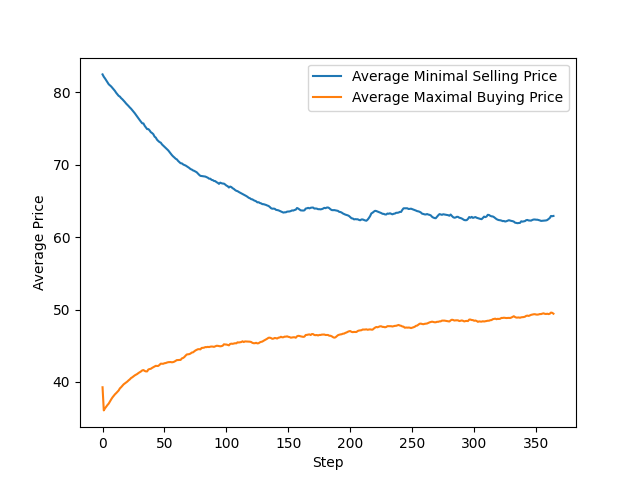
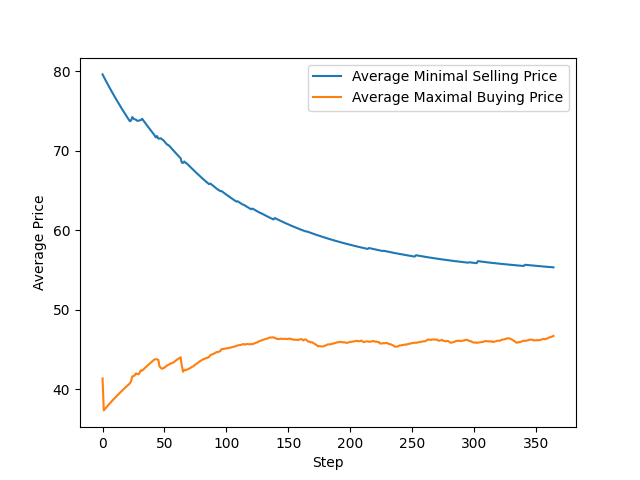
Agent groups per emissions

diff --git a/environment.py b/environment.py
@@ -11,6 +11,9 @@ EMISSION_VARIANCE = 0.2
 PRICE_VARIANCE = 0.8
 WILLINGNESS_GAP = 10
 ORIGINAL_PRICE = 60
+PRICE_CONTROL_VALUE = 20
+CREDITS_ALLOCATION_INTERVAL = 31
+
 
 class Environment:
     def __init__(self, number_of_agents_per_group,
@@ -36,24 +39,38 @@ class Environment:
 
     def create_agents(self):
         """
-        Creates agents based on the initial values.
-        Makes sure the inital maximum buying price is significantly lower than the initial minimum selling price
+        Creates agents based on the initial values given.
+        Iterates through number of groups and creates user decided amount of agents per each group.
+        Allowance credits are taken from the user decided list, in which group number corresponds to the listed credits.
+        Makes sure the initial maximum buying price is significantly lower than the initial minimum selling price.
         """
-        for _ in range(self.number_of_agents):
-            original_price = ORIGINAL_PRICE
-            emissions_amount = 0
-            buying_price = self.randomize_prices(original_price-20)#the max price I would pay must be lower as the price <- already picked from random pool
-            selling_price = self.randomize_prices(original_price+20)# I would sell a certificate, vice versa, the agent would be stupid
-            allocated_credits = self.allowance_credits #later it is going to be added <- introduced a bug, need to be allocated
-            time_steps = self.time_steps
-            new_agent = Agent(emissions_amount, allocated_credits, self.agent_transaction_limit, buying_price, selling_price, time_steps, original_price)
-            self.agents.append(new_agent)
+        for group_number in range(self.number_of_agents_group):
+            agent_index = 0
+            while agent_index != self.number_of_agents_per_group:
+                agent_index += 1
+                original_price = ORIGINAL_PRICE
+                emissions_amount = 0
+                buying_price = self.randomize_prices(original_price - PRICE_CONTROL_VALUE)
+                selling_price = self.randomize_prices(original_price + PRICE_CONTROL_VALUE)
+                allocated_credits = self.allowance_credits[group_number]
 
-    def randomize_emission_amount(self):
+                new_agent = Agent(emissions_amount,
+                                  allocated_credits,
+                                  self.agent_transaction_limit,
+                                  buying_price,
+                                  selling_price,
+                                  self.time_steps,
+                                  original_price,
+                                  group_number) # group number is also assigned
+                self.agents.append(new_agent)
+
+    def randomize_emission_amount(self, agent):
         """
+        THIS NEEDS TO BE REVISED!
+
         The total allowance credits are divided per month because they are increased daily
         """
-        all_cr = self.allowance_credits /31*self.number_of_agents_group #DIvided here by 30 because every day this gets added to the emissions
+        all_cr = agent.pre_allocated_credits /31 * self.number_of_agents_group #DIvided here by 30 because every day this gets added to the emissions
 
         min_emission = int(math.floor(all_cr -all_cr * EMISSION_VARIANCE))
         max_emission = int(math.floor(all_cr + all_cr * EMISSION_VARIANCE))
@@ -100,7 +117,7 @@ class Environment:
 
     def sort_buyers_sellers(self, buyers, sellers):
         """
-        Sorts buyertras by their maximum buying price
+        Sorts buyers by their maximum buying price
         and sellers by their minimum selling price reversed.
         """
         buyers.sort(key=lambda x: x.max_buying_price, reverse=False)
@@ -110,6 +127,7 @@ class Environment:
 
     def check_transaction_condition(self, buyer, seller):
         """
+        DEPRECATED
         Basic skeleton
         """
         if buyer.number_transaction_left > 0 and seller.number_transaction_left > 0:
@@ -127,13 +145,15 @@ class Environment:
         Last, if the buying price is higher than selling price, the transaction can be made
         """
         if buyer.number_transaction_left > 0 and seller.number_transaction_left > 0:
-            if buyer.pre_allocated_credits < buyer.emissions_amount and (seller.pre_allocated_credits > seller.emissions_amount or seller.willingness_to_reduce >= 1):
+            if buyer.pre_allocated_credits < buyer.emissions_amount and \
+                    (seller.pre_allocated_credits > seller.emissions_amount or seller.willingness_to_reduce >= 1):
                 if buyer.max_buying_price > seller.min_selling_price:
                     return True
         return False
 
     def do_transactions(self, buyers, sellers, step):
         """
+        DEPRECATED
         Basic functionality:
         Iterates through the list of buyers in sequential activation order
         buyer picks the seller promising lowest price and does transactions
@@ -144,7 +164,6 @@ class Environment:
                 i = 0
                 while self.check_transaction_condition(buyer, seller):
                     i += 1
-                    #print("transaction #" + str(i))
                     buyer.do_transaction()
                     buyer.add_credits()
                     seller.do_transaction()
@@ -152,6 +171,7 @@ class Environment:
 
     def do_transactions2(self, buyers, sellers, step):
         """
+        DEPRECATED
         Iterates through the list of buyers in sequential activation order
         buyer picks the seller promising lowest price and does transactions
         until either transaction quota is depleted, or the emission allowance is satisfied.
@@ -167,8 +187,7 @@ class Environment:
 
                 while self.check_transaction_condition(buyer, seller):
                     i += 1
-                    num_transaction = num_transaction + 1#there was a mistake !!!
-                    #print("transaction #" + str(i))
+                    num_transaction = num_transaction + 1
                     buyer.do_transaction()
                     buyer.add_credits()
                     seller.do_transaction()
@@ -207,7 +226,6 @@ class Environment:
                 while self.check_transaction_condition3(buyer, seller):
                     i += 1
                     num_transaction = num_transaction + 1
-                    #print("transaction #" + str(i))
                     buyer.do_transaction()
                     buyer.add_credits()
                     seller.do_transaction()
@@ -232,7 +250,6 @@ class Environment:
         for agent in sellers:
             agent.reset_quota()
 
-
     def increase_incentives(self, step):
         """
         If no transaction is made in the time step,
@@ -244,6 +261,14 @@ class Environment:
             agent.update_buying_price(step)
             agent.update_selling_price(step)
 
+    def add_credits(self, step):
+        """
+        When the current step matches the allocation interval,
+        """
+        if (step % CREDITS_ALLOCATION_INTERVAL) == 0 and step > 1:
+            for agent in self.agents:
+                agent.pre_allocated_credits = agent.pre_allocated_credits + self.allowance_credits[agent.group_number]
+
     def add_emission(self, step):
         """
         For every step and for every agent, the current emissions amount and allowance credits are recorded.
@@ -254,12 +279,10 @@ class Environment:
             agent.emissions_series[step] = agent.emissions_amount
             agent.credit_series[step] = agent.pre_allocated_credits
 
-            if (step % 31) == 0 and step > 1:
-                agent.pre_allocated_credits = agent.pre_allocated_credits + self.allowance_credits
-
-
-        for num in range(self.period * self.number_of_agents_per_group, (self.period + 1)* self.number_of_agents_per_group -1):
-            self.agents[num].emissions_add(self.randomize_emission_amount())
+        for num in range(self.period * self.number_of_agents_per_group,
+                         (self.period + 1) * self.number_of_agents_per_group -1):
+            current_agent = self.agents[num]
+            current_agent.emissions_add(self.randomize_emission_amount(current_agent)) # takes an  agent as an argument
         self.period = self.period + 1
         if self.period == self.number_of_agents_group:
             self.period = 0
@@ -416,6 +439,7 @@ class Environment:
                 print(e)
 
             self.add_emission(step)
+            self.add_credits(step)
 
         self.statistics()
 

diff --git a/main.py b/main.py
@@ -2,20 +2,53 @@ from environment import Environment
 
 
 """
-    agent daily limit per time step
+200 companies split between 10 groups
+Groups have the following emissions averages,
+and they're used as a proxy for the initial credits.
+(Subject to having divisor of 32)
 
-    # could experiment with time step = 12, agent_daily_limit = 100
-        -> per month, agent can do 100 transactions
+monthly allowances =  = (avg_emission / 12) - (avg_emission / 12) % 32 
+NOT FINAL -> change to any other function you want
+
+Groups  Average Emissions   Allowance credits assigned monthly
+1	    883.39              64
+2	    2886.11             160
+3   	5229.72             448
+4	    8372.33             672
+5	    14848.94            1216
+6	    22214.83            1824
+7	    32504.00            2688
+8	    49125.83            4064
+9	    89848.94            7456
+10	    366534.00           30528
+
+
+
 """
 
 if __name__ == '__main__':
-    for i in range(6):
-        env = Environment(number_of_agents_per_group=10,
-                          number_of_agents_group=66,
-                          allowance_credits=160,#has to have divisor 32
-                          agent_transaction_limit=20,
-                          time_steps=365,
-                          iterate=i)
-        env.create_agents()
-        env.do_magic(version=3)
+
+    allowances = [
+        64,
+        160,
+        448,
+        672,
+        1216,
+        1824,
+        2688,
+        4064,
+        7456,
+        30528
+    ]
+
+    i = 1
+
+    env = Environment(number_of_agents_per_group=20,
+                      number_of_agents_group=10,
+                      allowance_credits=allowances,#has to have divisor 32
+                      agent_transaction_limit=20,
+                      time_steps=365,
+                      iterate=i) #??
+    env.create_agents()
+    env.do_magic(version=3)
 

diff --git a/agent.py b/agent.py
@@ -12,7 +12,8 @@ class Agent:
                  max_buying_price=0,
                  min_selling_price=0,
                  time_steps=0,
-                 original_price=0):
+                 original_price=0,
+                 group=0):
 
         self.emissions_amount = emissions_amount
         self.pre_allocated_credits = pre_allocated_credits
@@ -22,6 +23,7 @@ class Agent:
         self.min_selling_price_init = min_selling_price
         self.original_price = original_price
         self.daily_quota = daily_quota
+        self.group_number = group
         self.number_transaction_left = self.daily_quota
         self.willingness_to_reduce = emissions_amount * REDUCE_RATE
         self.emission_ever_had = emissions_amount # Total amount of emissions since the start
